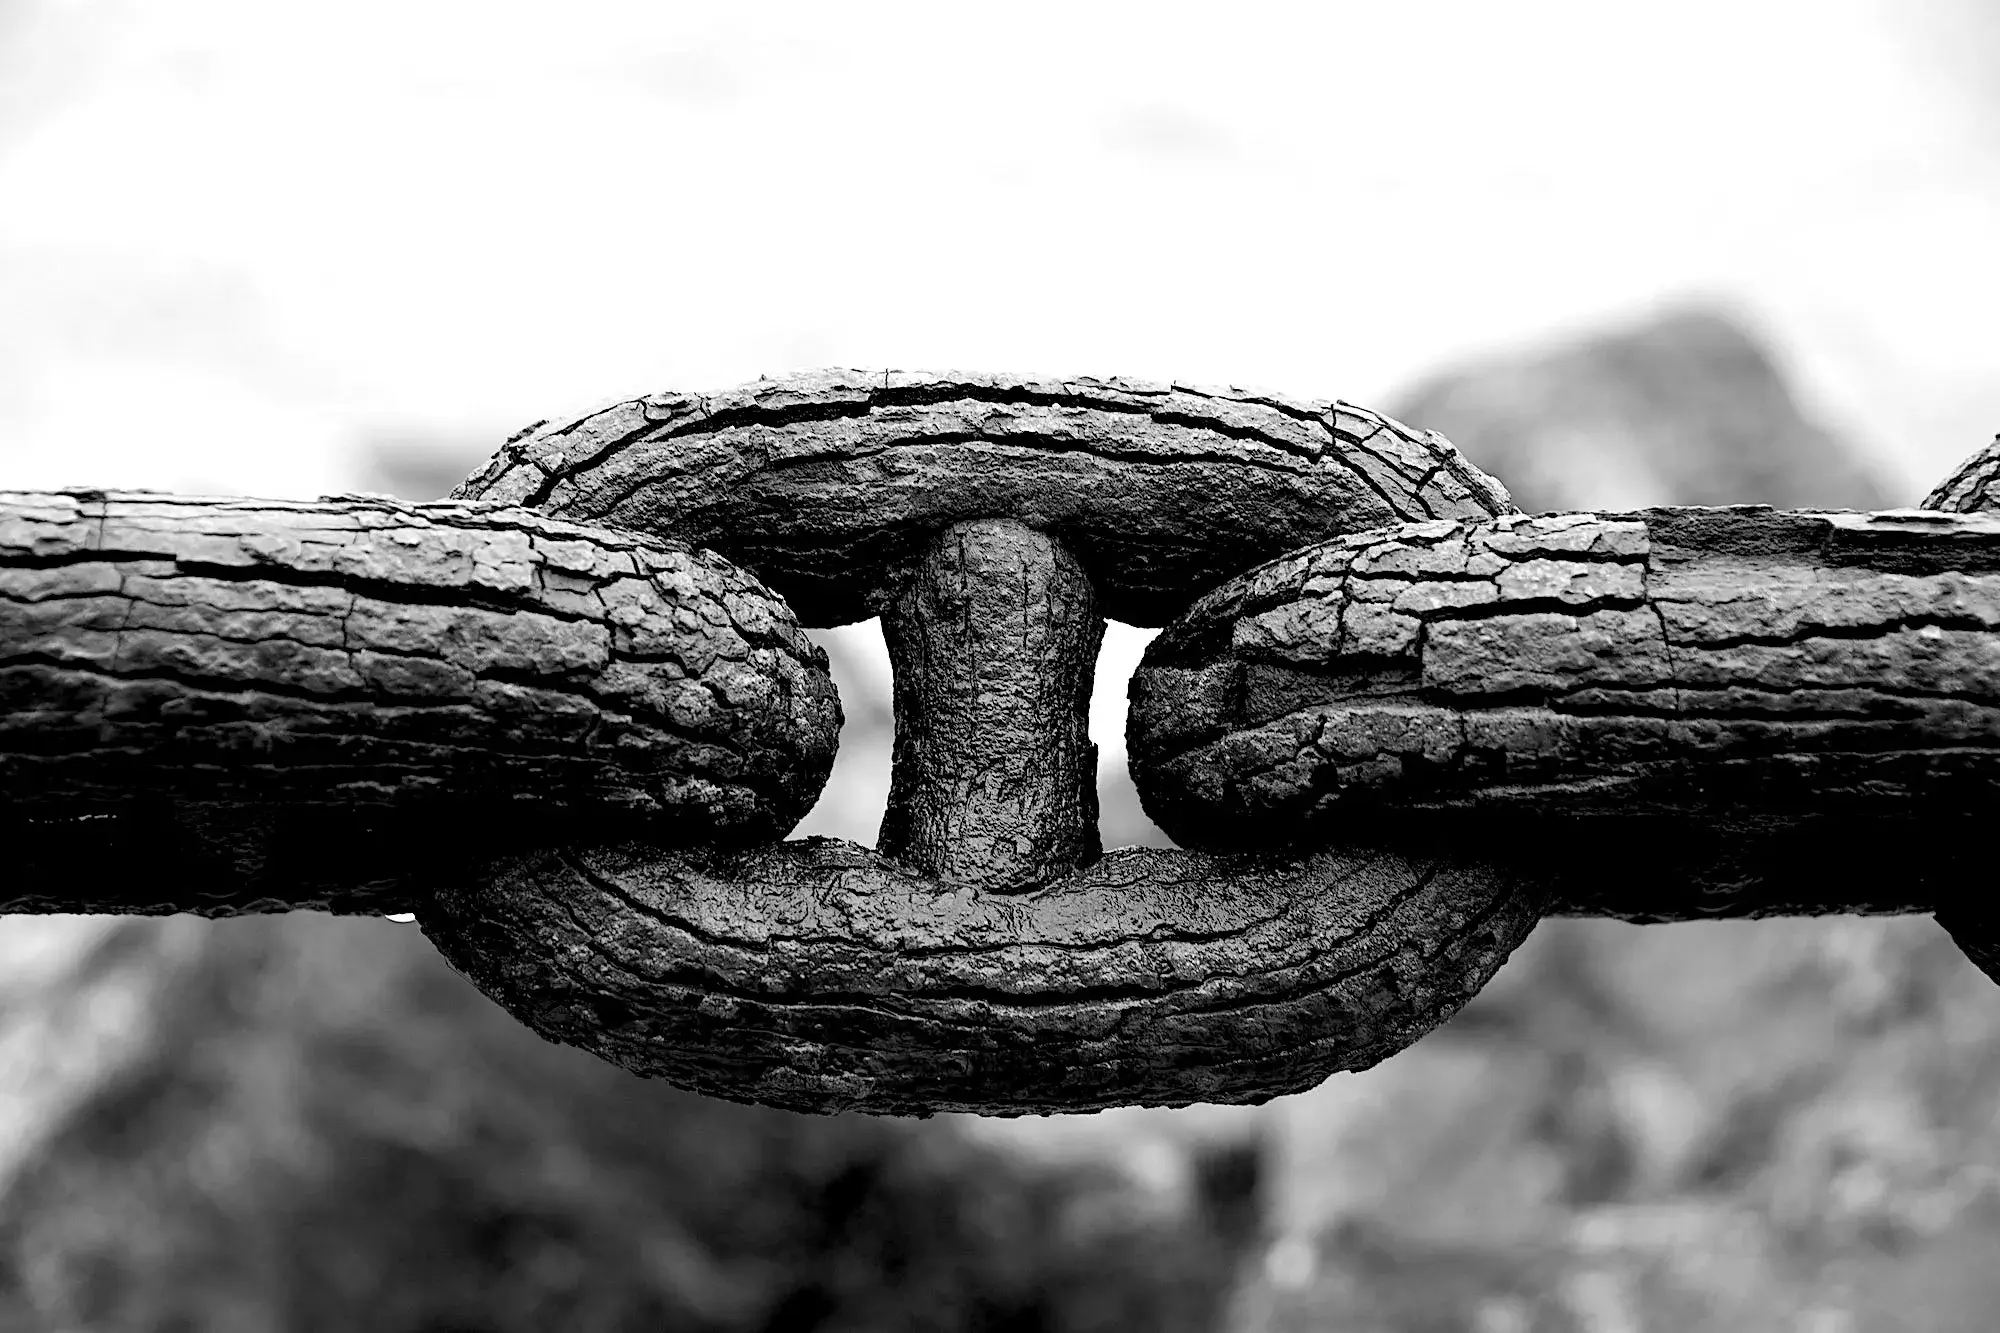
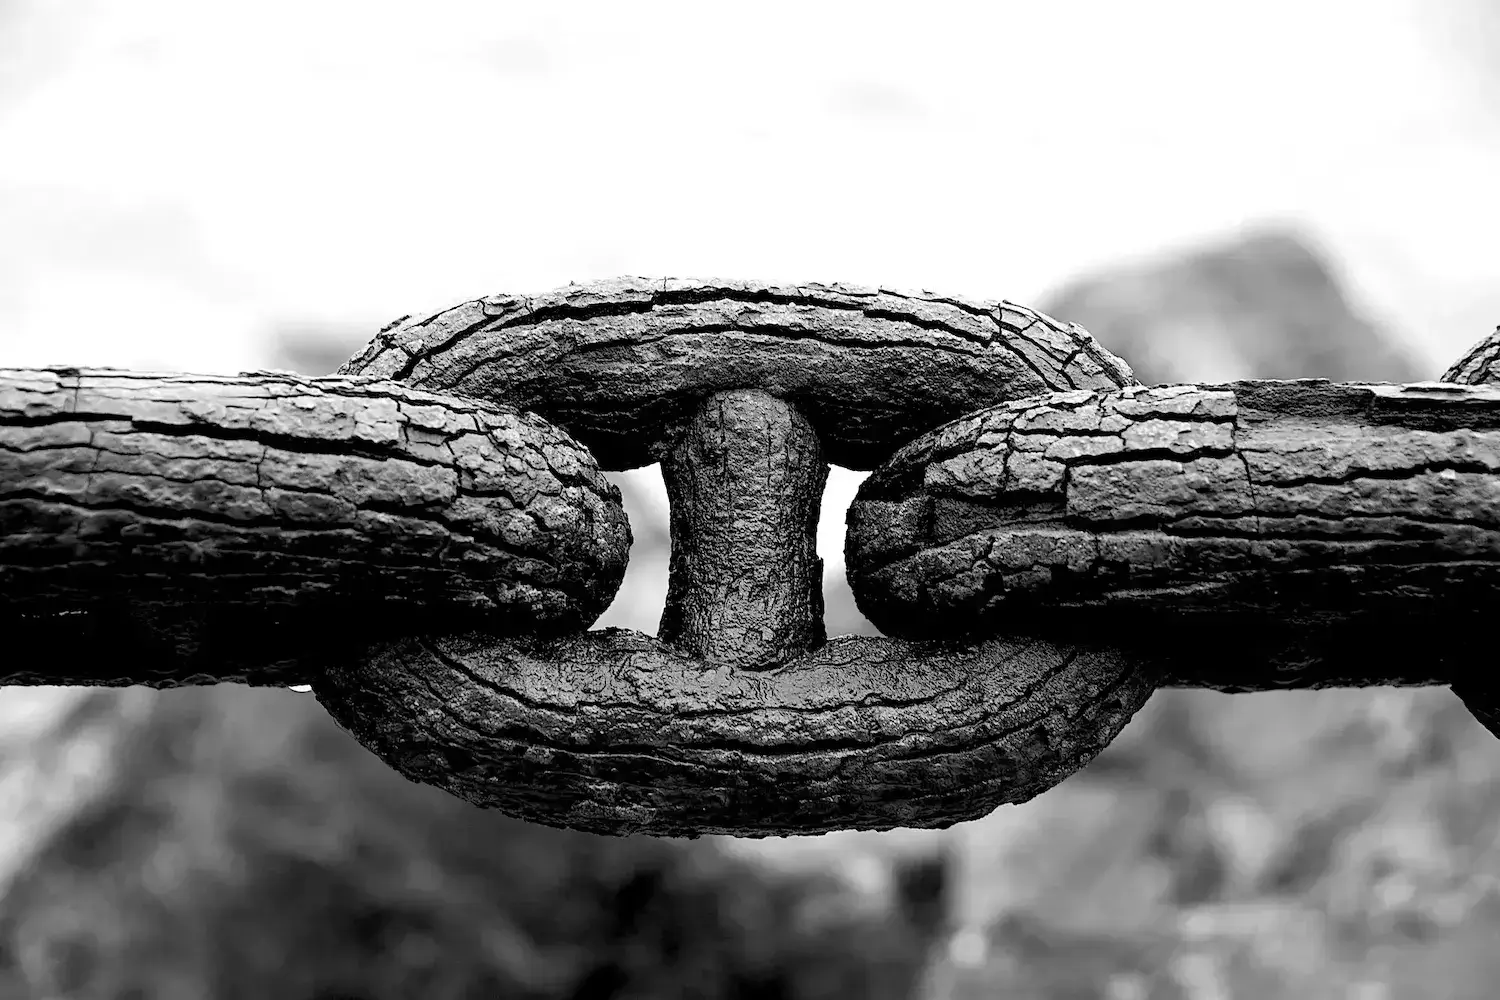
added an updated image

diff --git a/index.html b/index.html
@@ -61,23 +61,23 @@
             <a href="portfolio-management.html" class="service-card-link">
                 <div class="service-card-1">
                     <h3>Portfolio Management</h3>
-                    <img src="images/Portfolio Icon.webp" alt="portfolio icon">
+                    <img src="assets/images/portfolio-icon.webp" alt="portfolio icon">
                     <p class="services-p">Our portfolio management services encompass a wide range of investment strategies, including asset allocation, diversification, and risk management. We conduct thorough research and analysis to identify investment opportunities that align with our clients' objectives, and we continuously monitor and adjust portfolios to ensure they remain in line with changing market conditions.</p>
                 </div>
             </a>
             <div class="service-card-2">
                 <h3>Stocks</h3>
-                <img src="images/Stocks Icon.webp" alt="stocks icon">
+                <img src="assets/images/stocks-icon.webp" alt="stocks icon">
                 <p class="services-p">Our team of experienced professionals is dedicated to providing comprehensive stock management services to businesses of all sizes. We understand the importance of efficient stock management in maximizing profitability and minimizing costs.</p>
             </div>
             <div class="service-card-3">
                 <h3>Bonds</h3>
-                <img src="images/Bonds Icon.webp" alt="bonds icon">
+                <img src="assets/images/bonds-icon.webp" alt="bonds icon">
                 <p class="services-p">One of the key aspects of our bond management services is the analysis and evaluation of various bond options available in the market. We thoroughly assess the risk and return characteristics of different bonds to help our clients make informed investment decisions. By considering factors such as credit ratings, interest rates, and market trends, we aim to maximize the potential returns while minimizing the associated risks.</p>
             </div>
             <div class="service-card-4">
                 <h3>Real Estate</h3>
-                <img src="images/Real Estate Icon.webp" alt="real estate icon">
+                <img src="assets/images/real-estate-icon.webp" alt="real estate icon">
                 <p class="services-p">Whether you are a seasoned real estate investor or a first-time property owner, our professional real estate management services are designed to meet your unique needs. We are committed to delivering exceptional service, ensuring that your properties are well-managed and profitable. Trust us to handle the complexities of property management, so you can focus on other aspects of your life or business.</p>
             </div>
         </div>
@@ -87,11 +87,11 @@
         <p>A successful investment company must have core values that set the tone for its behavior and how it interacts with its clients. At the core of our investment company is a commitment to professionalism, integrity, and delivering the highest quality advice and services to our clients. We strive to be leaders in our field, providing sound advice built on our extensive research and knowledge. We aim to build lasting relationships with our clients, treating them as individuals and providing tailored advice to meet their individual financial goals. We act in the best interest of our clients and are always honest and transparent in our communications. Finally, we are proactive in our approach to investment advice, always keeping our clients up-to-date on industry news and trends.</p>
     </section>
     <section id="section3">
-        <img src="images/chain.webp" alt="chains linked together">
+        <img src="assets/images/chain.webp" alt="chains linked together">
     </section>
     <section id="section4">
         <h2>Our Team</h2>
-        <img src="images/team.webp" alt="group portrait of financial advisors" width=80% height=70%>
+        <img src="assets/images/team.webp" alt="group portrait of financial advisors" width=80% height=70%>
     </section>
     <section id="section5">
         <h2>Contact Us</h2>
